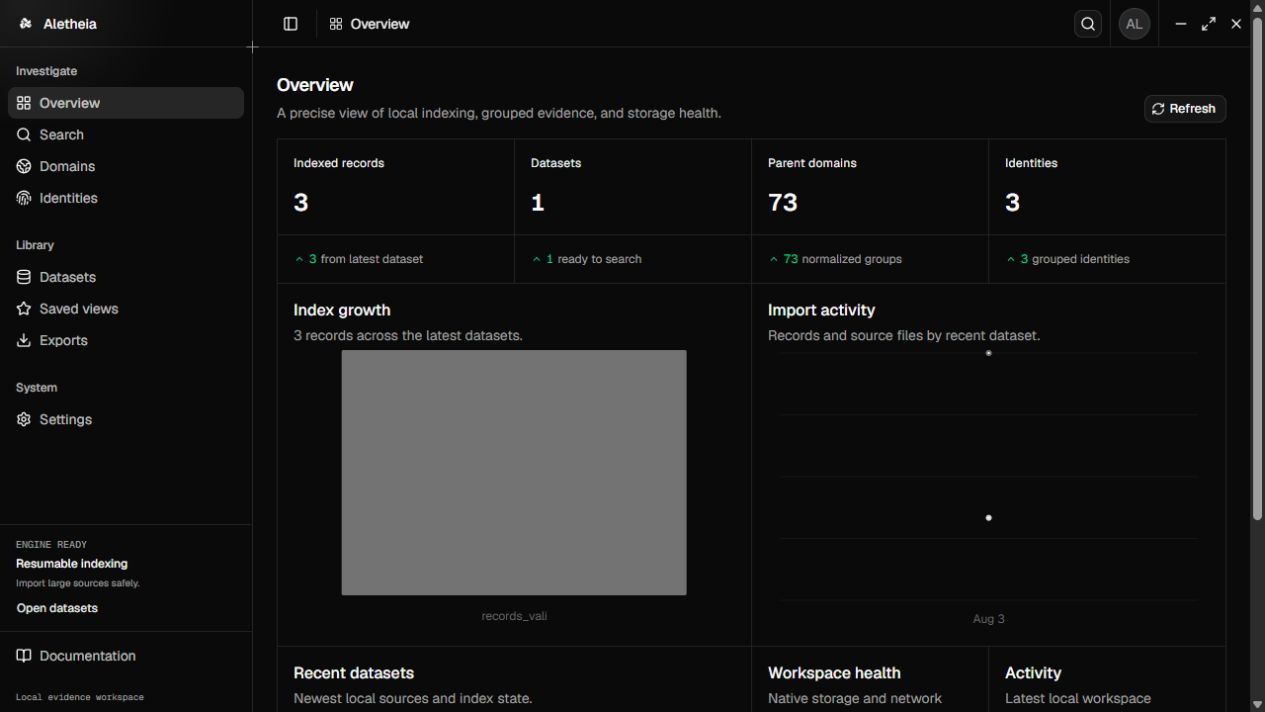
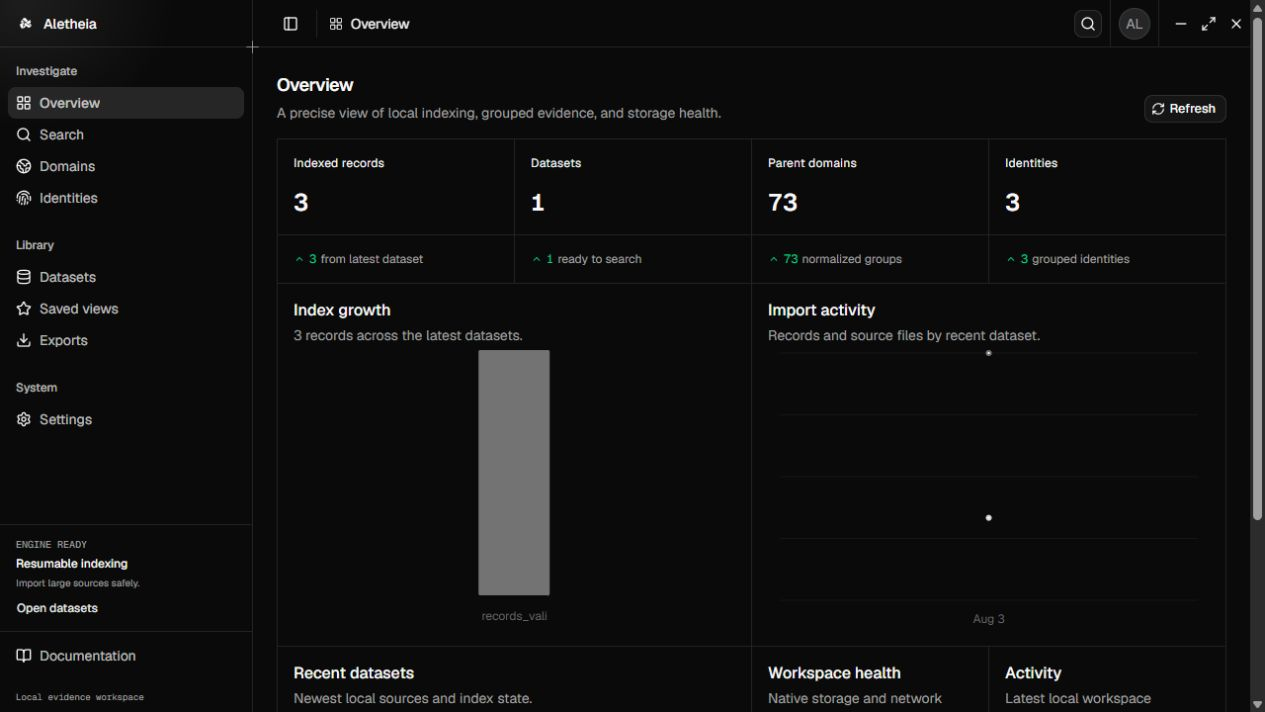
fix: keep single-dataset charts readable

Changed region(s): [[0.2466, 0.4944, 0.4008, 0.8343], [0.4316, 0.4944, 0.5549, 0.8343]]

diff --git a/src/components/net-revenue-chart.tsx b/src/components/net-revenue-chart.tsx
@@ -72,6 +72,7 @@ export function NetRevenueChart({ datasets }: { datasets: DatasetSummary[] }) {
               }}
               dataKey="records"
               fill="var(--color-records)"
+              maxBarSize={72}
               radius={2}
             />
           </BarChart>

diff --git a/CHANGELOG.md b/CHANGELOG.md
@@ -7,6 +7,7 @@
 - Added safe dataset removal that deletes only generated SQLite and Tantivy data, blocks removal during active work, and proves the original source remains untouched.
 - Made live scanning the recommended path for multi-million-row, multi-gigabyte, HDD, ZIP, RAR, and GZIP sources; added clear throughput, loading, resume, removal, and long-running workflow feedback.
 - Rebuilt the README around current product screenshots, large-source guidance, normal-user installation, and the live-scan versus persistent-index decision.
+- Capped index-growth bars so single-dataset workspaces stay readable while preserving the chart's hover detail.
 - Replaced identity source-only rows and field badges with readable delimited record values, plus an intentional full-identifier view that never exposes passwords, tokens, cookies, or API keys.
 - Separated Indexed Search from Direct File Scan with clear mode cards, independent queries, automatic query-type hints, and advanced scan controls for workers, archives, and result limits.
 - Standardized action footers across Search, Datasets, Identities, Exports, and Settings to the square Efferd treatment without rounded gray corners.
